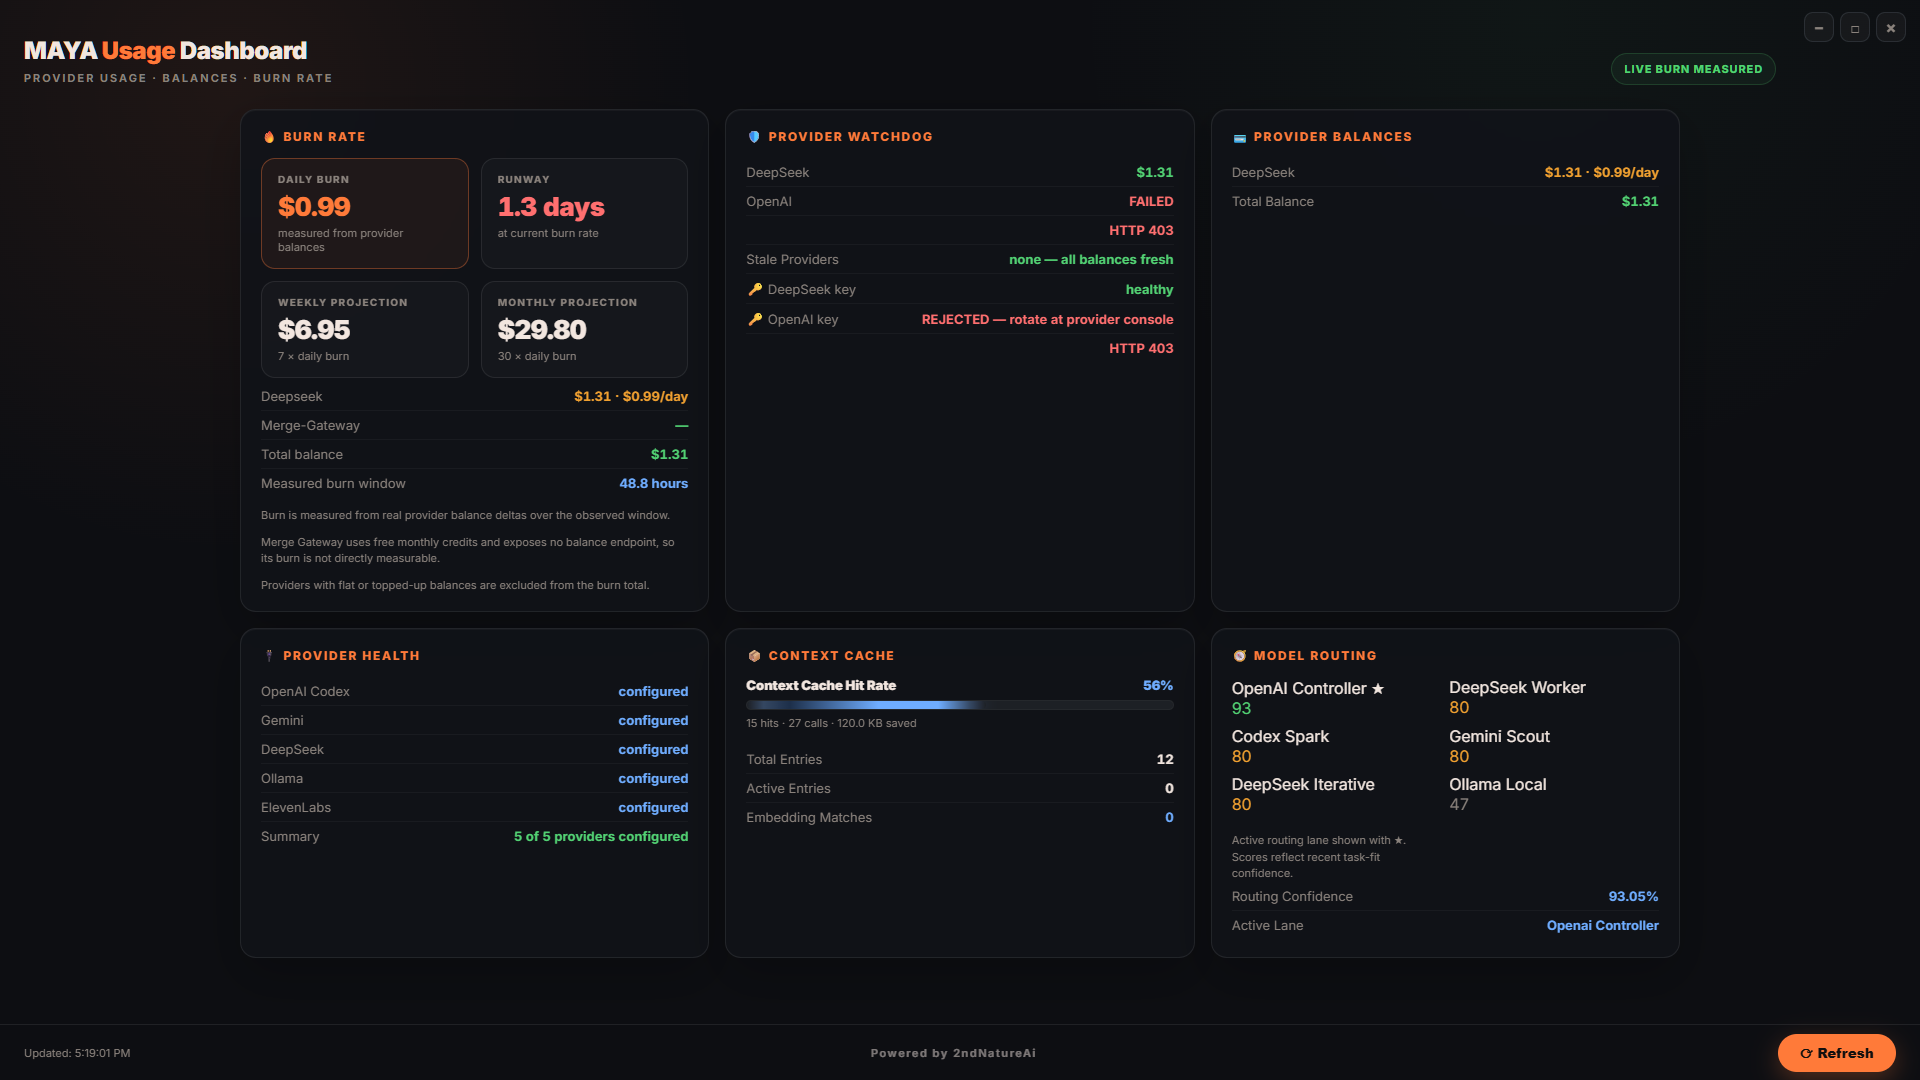
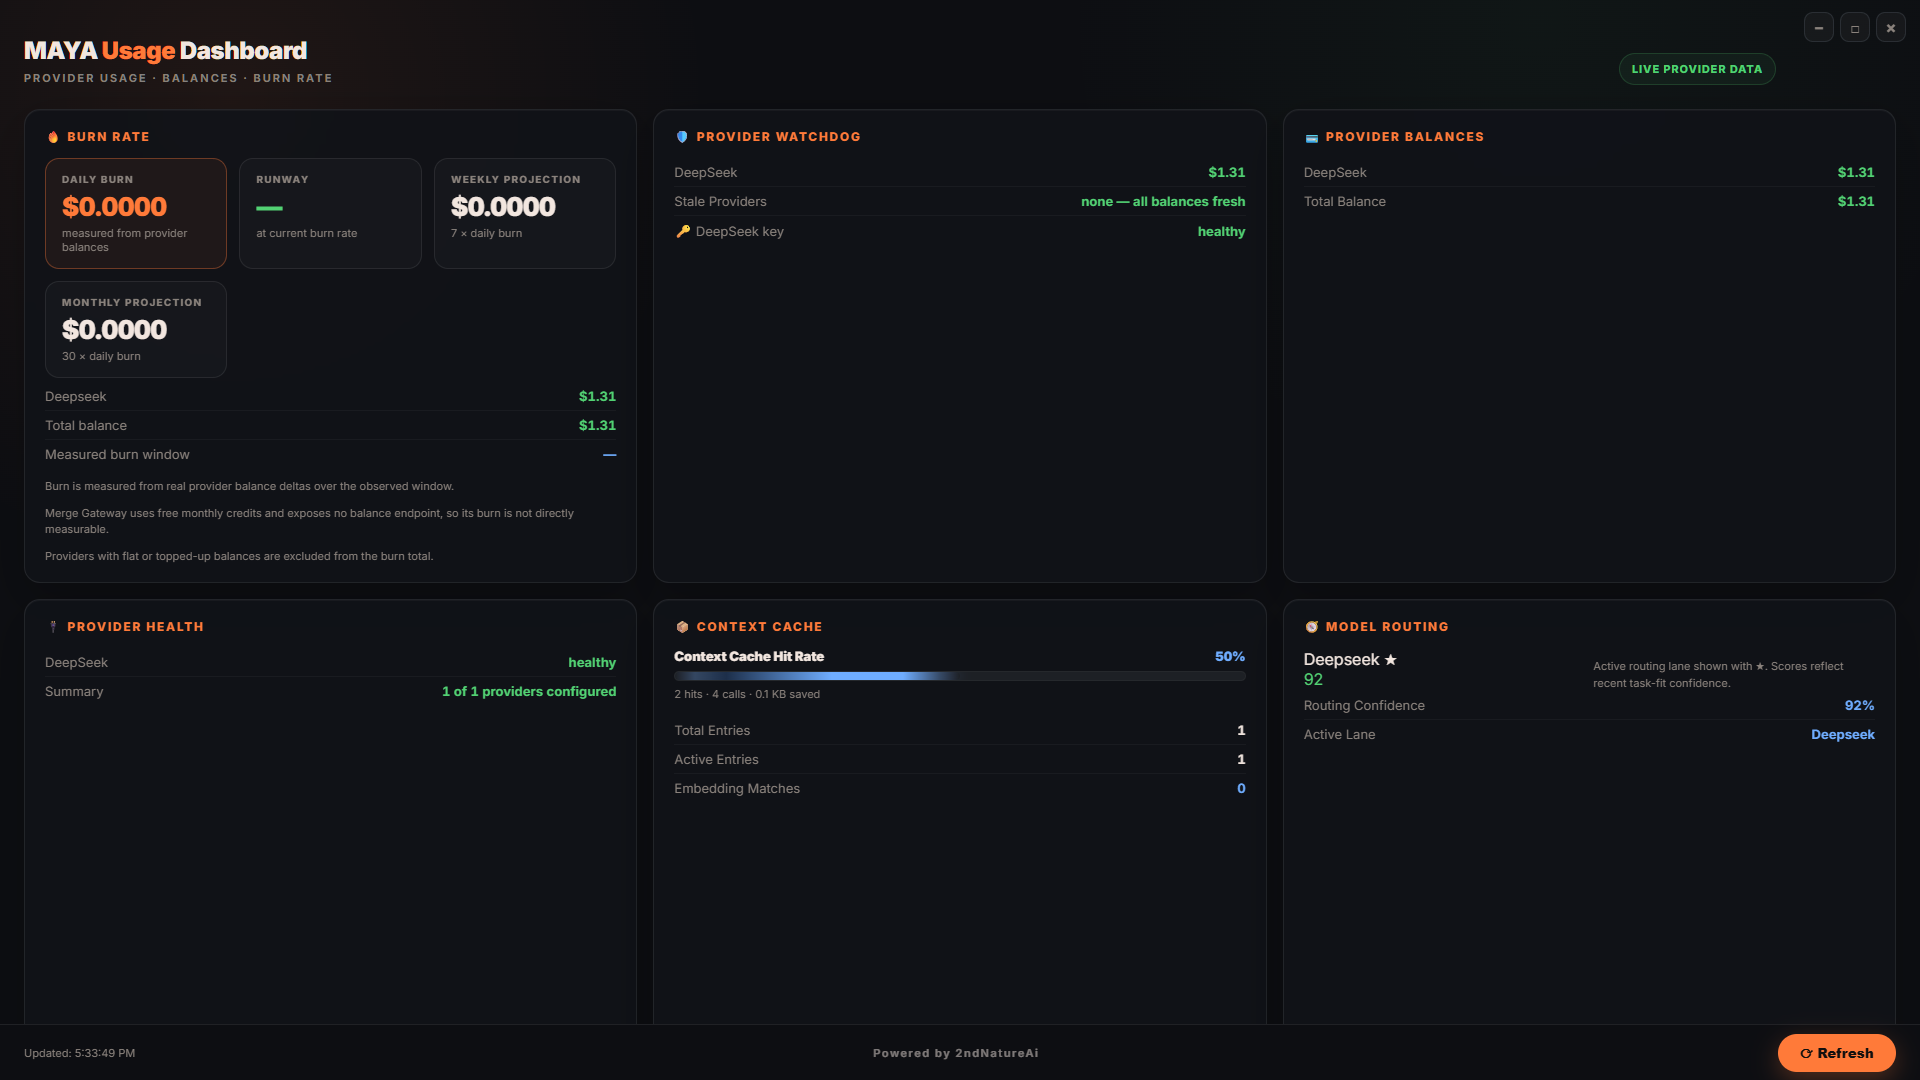
layout: stretch dashboard cards full-width, even 3x2 grid
Replace auto-fit minmax grid with explicit 3-column grid so the 6 cards
stretch edge-to-edge across the screen in even 613x474 dimensions.
Cards fill their rows (height 100%). README screenshot refreshed to the
new full-width layout.

diff --git a/public/usage-dashboard-public.html b/public/usage-dashboard-public.html
@@ -49,12 +49,12 @@
     }
     .dash-window-btn:hover { color: var(--orange); border-color: rgba(255,149,64,.28); background: rgba(255,149,64,.075); }
     .dash-window-close:hover { color: var(--red); border-color: rgba(255,111,111,.28); background: rgba(255,111,111,.075); }
-    header { margin: 12px auto 24px; max-width: 1440px; display:flex; justify-content:space-between; gap:18px; align-items:flex-end; padding-right:120px; }
+    header { margin: 12px 0 24px; display:flex; justify-content:space-between; gap:18px; align-items:flex-end; padding-right:120px; }
     h1 { font-size: 24px; font-weight: 900; margin-bottom: 6px; letter-spacing:-.02em; }
     h1 span { color: var(--orange); }
     .sub { color: var(--dim); font-size: 11px; text-transform:uppercase; letter-spacing:.18em; font-weight:700; }
     .source-pill { border:1px solid rgba(82,210,115,.18); border-radius:999px; padding:8px 12px; color:var(--green); background:rgba(82,210,115,.06); font-size:11px; font-weight:800; letter-spacing:.08em; text-transform:uppercase; }
-    .dashboard-grid { display: grid; grid-template-columns: repeat(auto-fit, minmax(360px, 1fr)); gap: 16px; margin-bottom: 24px; max-width: 1440px; margin-left: auto; margin-right: auto; }
+    .dashboard-grid { display: grid; grid-template-columns: repeat(3, 1fr); grid-auto-rows: 1fr; gap: 16px; margin-bottom: 24px; width: 100%; }
     .card {
       background: var(--panel);
       border: 1px solid var(--border);
@@ -63,6 +63,7 @@
       backdrop-filter: blur(12px);
       box-shadow: 0 18px 50px rgba(0,0,0,.22), inset 0 1px 0 rgba(255,255,255,.035);
     }
+    .dashboard-grid .card { height: 100%; }
     .card h3 { font-size: 12px; text-transform: uppercase; letter-spacing: .14em; font-weight: 800; color: var(--orange); margin-bottom: 14px; }
     .full-width { grid-column: 1 / -1; }
     .row { display:flex; justify-content:space-between; align-items:center; gap:12px; padding:6px 0; font-size:13px; }
